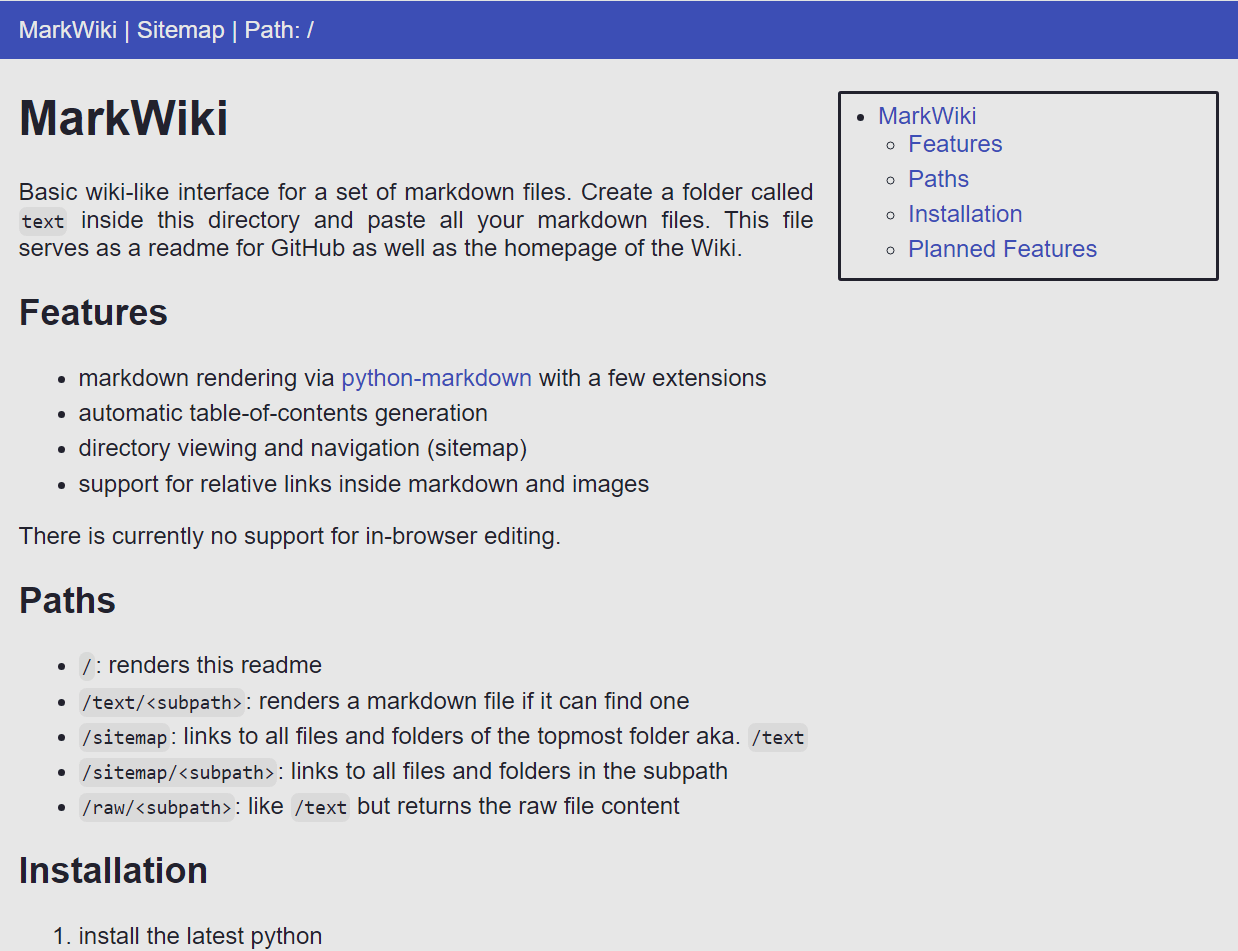
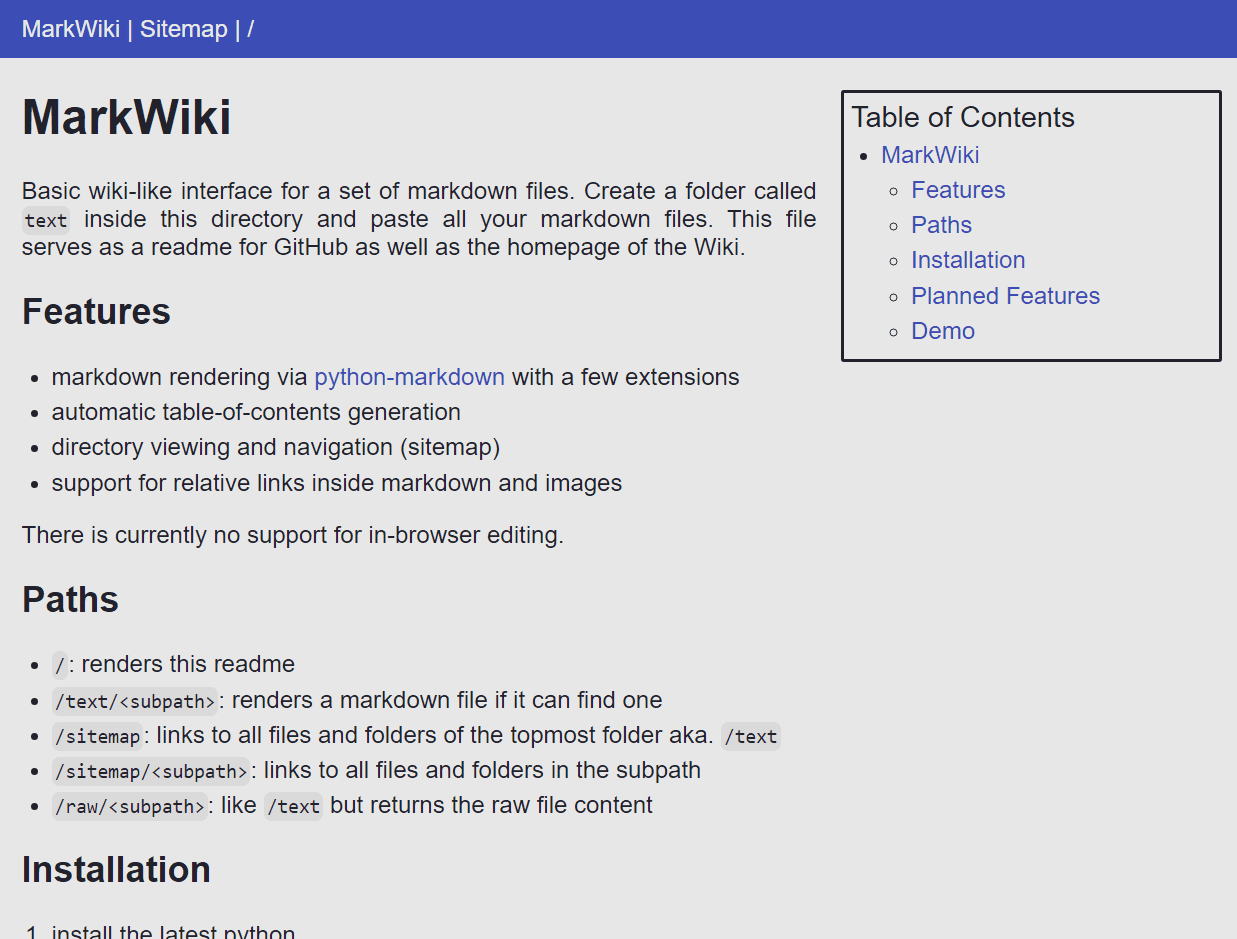
fix table and list styling

diff --git a/static/style.css b/static/style.css
@@ -50,23 +50,23 @@ img {
 }
 
 table {
-    border: 1px solid gray;
+    
     border-collapse: collapse;
     align-self: center;
 }
 
-tr:nth-child(odd) {
+th, td {
+    border: 1px solid rgb(161, 161, 161);
+}
+
+tr:nth-child(even), thead {
     background-color: #82828224;
 }
 
 tr,
 td,
 th {
-    padding: 6px 12px 6px 6px;
-}
-
-li {
-    margin: 0 0 0.3em 0;
+    padding: 4px 8px 4px 4px;
 }
 
 pre {
@@ -74,7 +74,7 @@ pre {
     padding: 2px;
     border-radius: 5px;
 }
-/*this is sort of nasty but triple ` code blocks get wrapped as pre > code, applying both styles. */
+/* this is sort of nasty but triple ` code blocks get wrapped as pre > code, applying both styles. so we do this to get rid of the code styling */
 pre code {
     background-color: #00000000;
 }
@@ -83,6 +83,16 @@ code {
     background-color: #9f9f9f30;
     padding: 2px;
     border-radius: 5px;
+}
+
+ul, ol {
+    padding-left: 20px;
+    margin: 0.3em 0 0.3em 0;
+}
+
+/* this fixes everything related list margins including nested lists etc. */
+li {
+    margin-top: 0.3em;
 }
 
 .center {
@@ -101,8 +111,8 @@ code {
     text-align: start;
 }
 
-ul, ol {
-    padding-left: 20px;
+.toctitle {
+    font-size: larger;
 }
 
 .icon {

diff --git a/wikiserver.py b/wikiserver.py
@@ -3,11 +3,12 @@ from markupsafe import Markup
 from addnewline import NewLineExtension
 
 import markdown
+from markdown.extensions.toc import TocExtension
 import os
 
 app = Flask(__name__)
 
-md = markdown.Markdown(extensions=['toc', 'tables', 'fenced_code', 'meta', 'sane_lists', NewLineExtension()])
+md = markdown.Markdown(extensions=[TocExtension(title="Table of Contents"), 'tables', 'fenced_code', 'meta', 'sane_lists', NewLineExtension()])
 
 @app.get("/favicon.ico")
 def favicon():

diff --git a/readme.md b/readme.md
@@ -30,3 +30,5 @@ There is currently no support for in-browser editing.
 This is how the interface looks:
 
 ![img](static/demo.png)
+
+(it's super trippy seeing the app inside itself)
